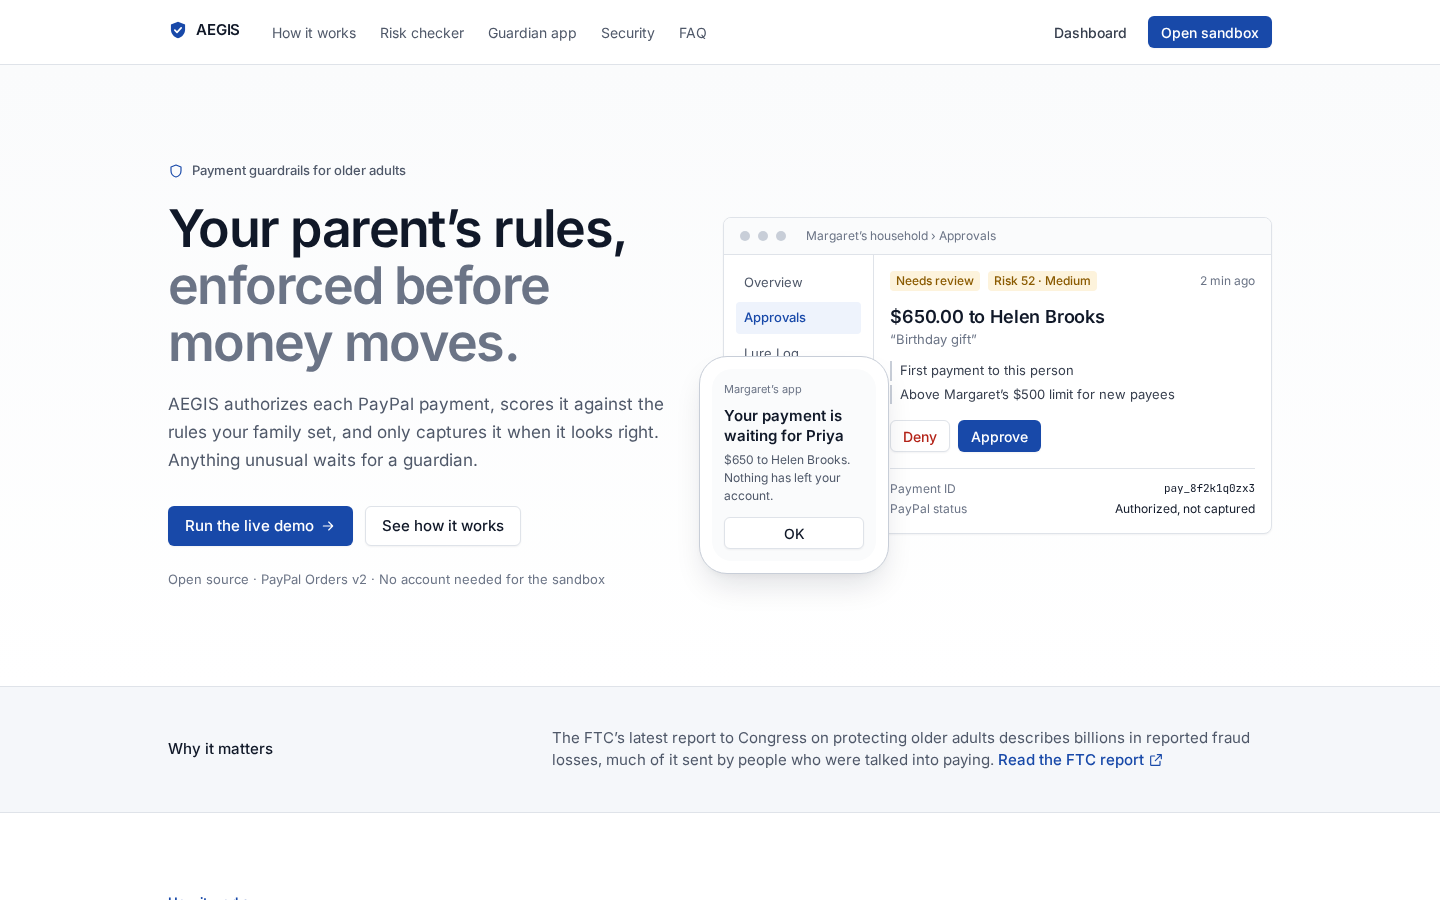
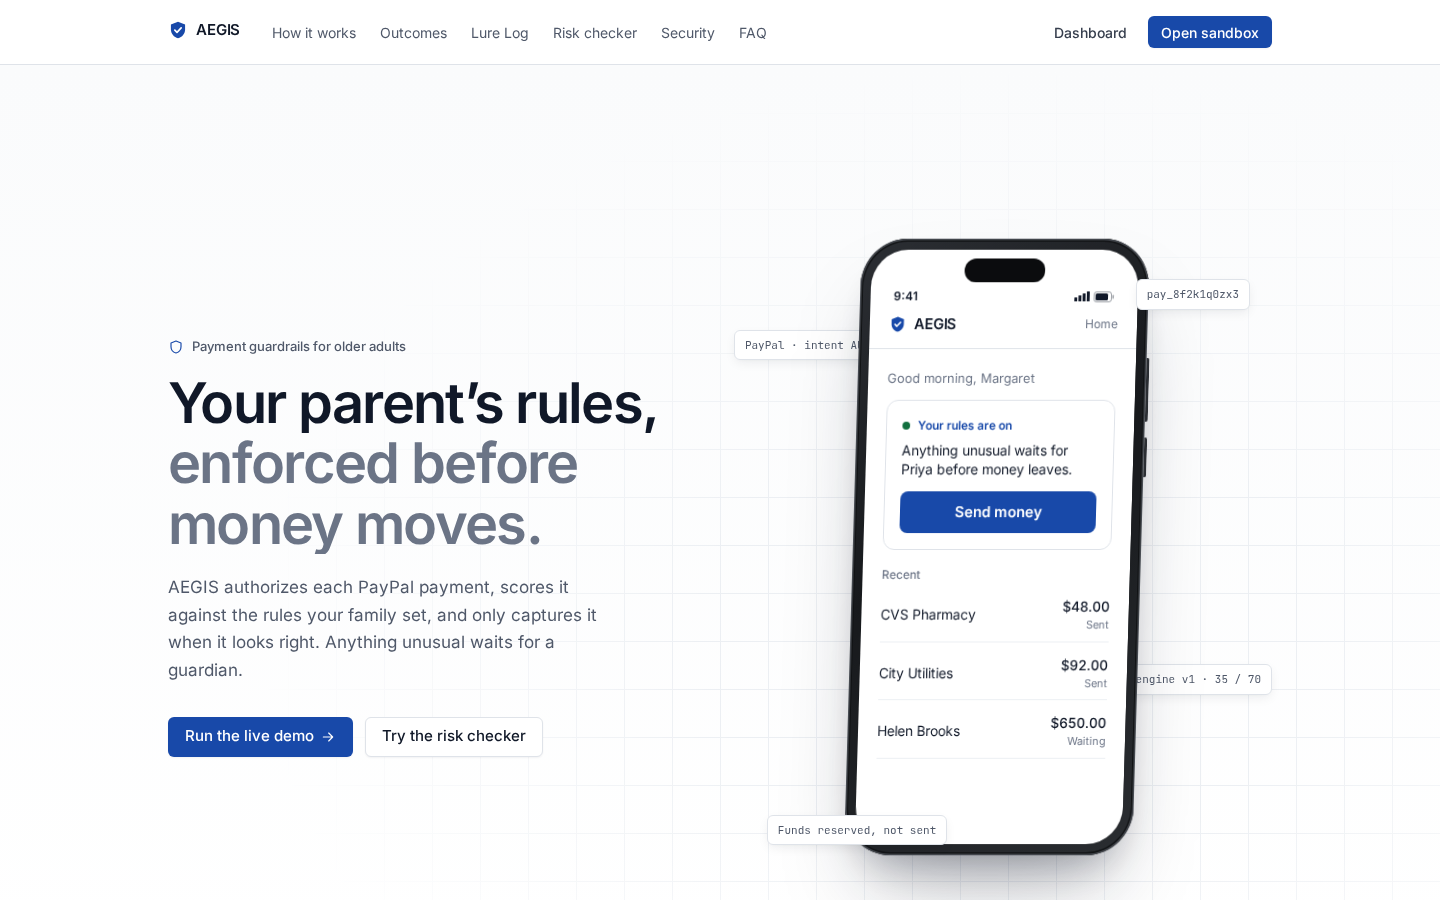
docs: landing chapter screenshots

diff --git a/e2e/screenshots.spec.ts b/e2e/screenshots.spec.ts
@@ -6,8 +6,21 @@ test.skip(!process.env.SCREENSHOTS, 'set SCREENSHOTS=1 to refresh docs/ images')
 test('capture landing, sandbox, dashboard and senior screenshots', async ({ page }) => {
   await page.setViewportSize({ width: 1440, height: 900 });
   await page.goto('/');
-  await page.waitForTimeout(800);
+  await expect(page.getByTestId('story-motion')).toBeVisible();
+  await page.waitForTimeout(2500);
   await page.screenshot({ path: 'docs/landing.png' });
+  await page.screenshot({ path: 'docs/landing-ch1.png' });
+  const at = async (y: number, file: string) => {
+    await page.evaluate((top) => window.scrollTo(0, top), y);
+    await page.waitForTimeout(2500);
+    await page.screenshot({ path: file });
+  };
+  await at(3700, 'docs/landing-ch2.png');
+  await at(5000, 'docs/landing-ch3.png');
+  const audit = await page.evaluate(
+    () => document.getElementById('audit')!.getBoundingClientRect().top + window.scrollY,
+  );
+  await at(audit + 320, 'docs/landing-ch4.png');
 
   await page.goto('/demo');
   await page.getByRole('button', { name: 'Run CVS Pharmacy $48' }).click();

diff --git a/README.md b/README.md
@@ -99,6 +99,16 @@ See [CONTRIBUTING.md](CONTRIBUTING.md) for branches, commits, and checks.
 
 Refresh these with `SCREENSHOTS=1 npx playwright test screenshots`.
 
+The landing page is a scroll-driven story (GSAP ScrollTrigger + Lenis, with a lazy-loaded three.js payment card). Screens under 1024px and anyone with reduced motion get the same chapters as plain stacked sections, with no pinning or WebGL.
+
+![Chapter 1: Margaret's phone turns in](docs/landing-ch1.png)
+
+![Chapter 3: the payment is scored against her rules, with reasons](docs/landing-ch2.png)
+
+![Chapter 4: the held outcome, with Priya's approval on her phone](docs/landing-ch3.png)
+
+![Chapters 5 and 6: Lure Log rows and the FTC figures](docs/landing-ch4.png)
+
 ![Sandbox: three test payments and the webhook-style event log](docs/demo.png)
 
 ![Guardian overview: approvals inbox, volume chart and recent payments](docs/dashboard-guardian.png)
